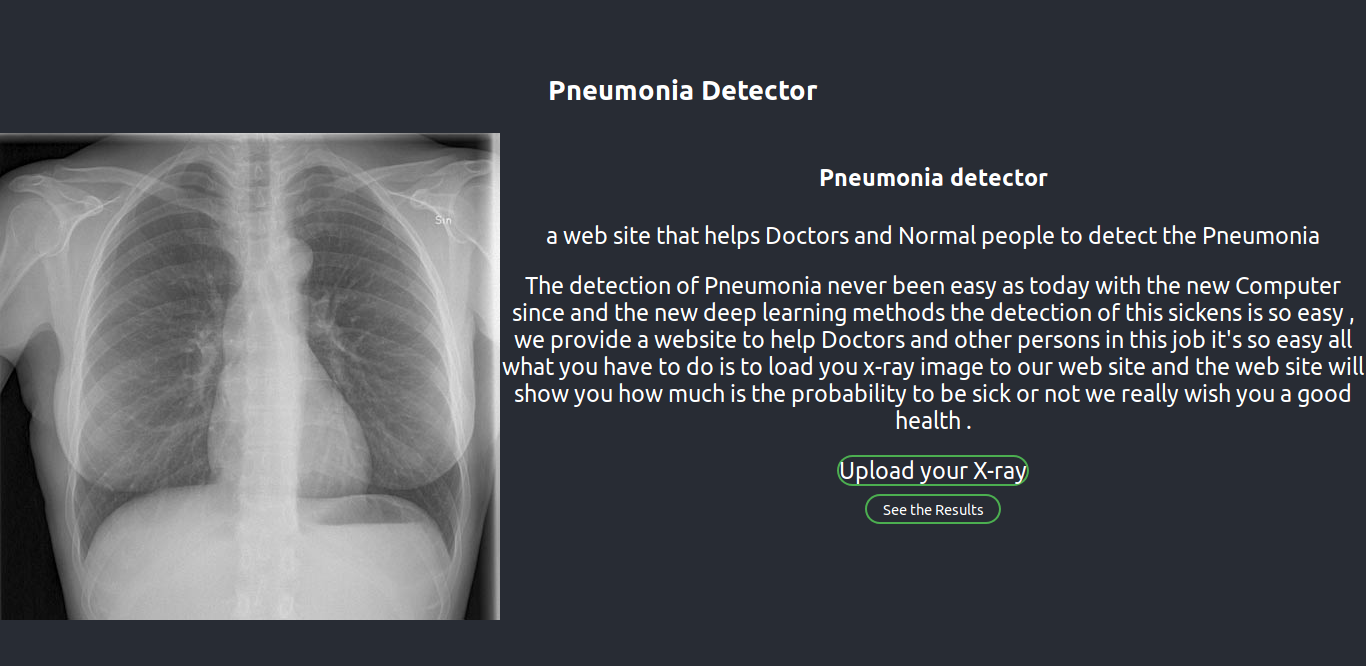
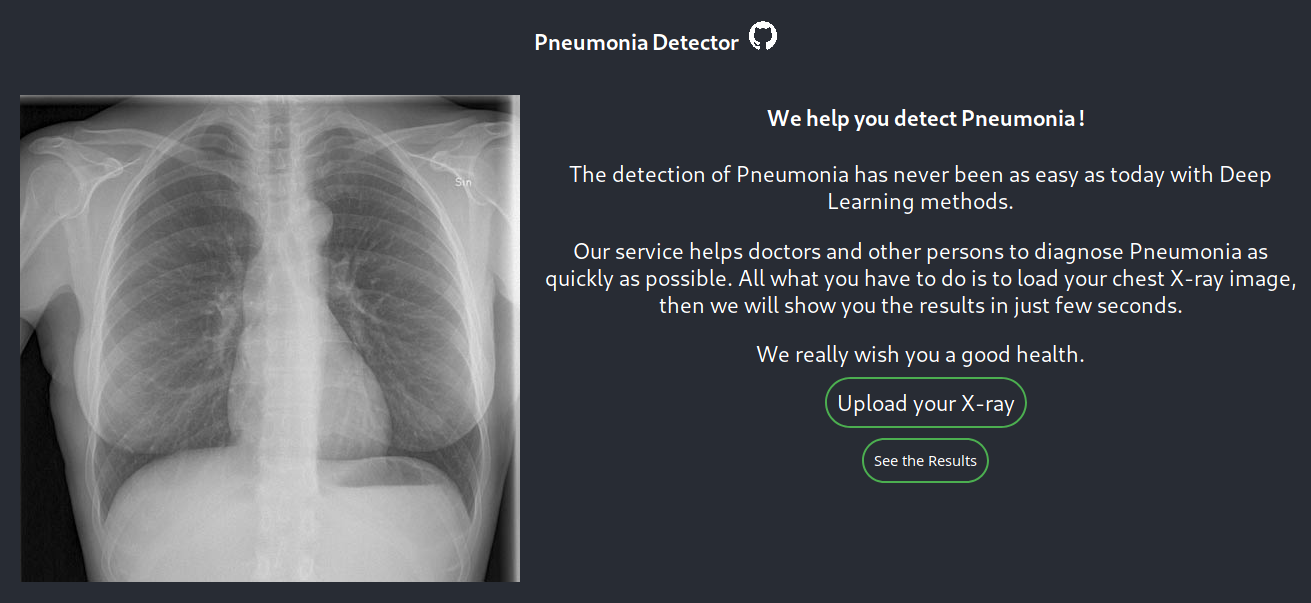
polishing the ui

diff --git a/webapp/pneumonia-detector/src/App.js b/webapp/pneumonia-detector/src/App.js
@@ -22,7 +22,8 @@ class App extends Component {
     selectedImage:null,
     visible : false,
     Normal:0,
-    Sick:0
+    Sick:0,
+    waiting: false,
   }
 
   Results = {
@@ -42,44 +43,80 @@ class App extends Component {
     this.uploadedImage = true
   }
 
+  getSelectedImageName = () => {
+    if (this.uploadedImage){
+      return this.state.selectedImage.name
+    }else {
+      return ""
+    }
+  }
 
   // this is the evenhandler of the sumbmit clic , it sends the image using axios
 
   OnUploadHeanderl = () =>{
-    if(this.state.selectedImage==null)alert('You didn\'t choose any Picture please selecte one and click agin');
-    else{    const fd =new FormData();
-              fd.append('chest_xray',this.state.selectedImage);
-              // this url should be changed after for now the API is runing under this addres in my machine
-              Axios.post('http://130.211.108.207:3000/pred',fd).then( response=>{
-              this.setState({
-                Normal : response.data['NORMAL'],
-                Sick   : response.data['PNEUMONIA']
-              })
-              this.openModal()
-              })
-  }
+    if(this.state.selectedImage==null)
+      alert('You didn\'t choose any picture. Please select one and click agin');
+    else{
+      const fd =new FormData();
+      fd.append('chest_xray',this.state.selectedImage);
+      // this url should be changed after for now the API is runing under this addres in my machine
+      this.setState({
+        waiting: true
+      })
+      Axios.post('http://130.211.108.207:3000/pred',fd)
+        .then( response=>{
+          this.setState({
+              Normal : response.data['NORMAL'],
+              Sick   : response.data['PNEUMONIA']
+            })
+            this.setState({
+              waiting: false
+            })
+            this.openModal()
+        })
+        .catch(error => {
+          this.setState({
+            waiting: false
+          })
+          alert("Something went wrong :/ \nPlease raise an issue on our github repo")
+        })
+    }
 
   }
+
   render() {
     return (
       <div className="App">
-        <header className="App-header">
-        <h3>Pneumonia Detector</h3>
+          <header className="App-header">
+          <div style={{margin: '20px'}}>
+          <a target="_blank" href="https://github.com/LatrecheYasser/pneumonia-detector">
+            <b>Pneumonia Detector</b>
+            <img src="/Image/github.png" style={{marginLeft:'10px', width:'4%'}}/>
+            </a>
+          </div>
           <div style={{backgroundColor:'#282c34'}}>
-          <img src="/Image/Pen.jpg" style={{float:'left'}} alt="an example of X-ray pic" ></img>
-          <h4 >Pneumonia detector</h4>
-          <p>
-          a web site that helps Doctors and Normal people to detect the Pneumonia
-          </p>
-          <p>
-          The detection of Pneumonia never been easy as today with the new Computer since and the new deep learning methods the detection of this sickens is so easy , we provide a website to help Doctors and other persons in this job
-          it's so easy all what you have to do is to load you x-ray image to our web site and the web site will show you how much is the probability to be sick or not
-          we really wish you a good  health .
-          </p>
+          <img src="/Image/Pen.jpg" style={{float:'left', margin:'20px'}} alt="an example of X-ray pic" ></img>
+          <h4>
+          We help you detect Pneumonia !
+          </h4>
+          <div id="desc">
+            <p>
+            The detection of Pneumonia has never been as easy as today with Deep Learning methods.
+            </p>
+            <p>
+            Our service helps doctors and other persons to diagnose Pneumonia as quickly as possible.
+            All what you have to do is to load your chest X-ray image, then we will show you the results in just few seconds.
+            </p>
+            <p>
+            We really wish you a good  health.
+            </p>
+          </div>
             <label className="button1"> Upload your X-ray
             <input type="file" onChange={this.fileChangedHandler}/></label>
-            <br/>
-            <button className="button1" onClick={this.OnUploadHeanderl}>See the Results</button>
+            <p visible={this.uploadedImage.toString()}>{this.getSelectedImageName()}</p>
+            <button className="button1" onClick={this.OnUploadHeanderl}>
+              {this.state.waiting? "Waiting..." : "See the Results"}
+            </button>
 
                 <Modal visible={this.state.visible} width="400" height="300" effect="fadeInUp" onClickAway={() => this.closeModal()}>
                     <div style={{color:'black'}}>

diff --git a/webapp/pneumonia-detector/public/index.html b/webapp/pneumonia-detector/public/index.html
@@ -8,34 +8,11 @@
       content="width=device-width, initial-scale=1, shrink-to-fit=no"
     />
     <meta name="theme-color" content="#000000" />
-    <!--
-      manifest.json provides metadata used when your web app is added to the
-      homescreen on Android. See https://developers.google.com/web/fundamentals/web-app-manifest/
-    -->
     <link rel="manifest" href="%PUBLIC_URL%/manifest.json" />
-    <!--
-      Notice the use of %PUBLIC_URL% in the tags above.
-      It will be replaced with the URL of the `public` folder during the build.
-      Only files inside the `public` folder can be referenced from the HTML.
-
-      Unlike "/favicon.ico" or "favicon.ico", "%PUBLIC_URL%/favicon.ico" will
-      work correctly both with client-side routing and a non-root public URL.
-      Learn how to configure a non-root public URL by running `npm run build`.
-    -->
-    <title>React App</title>
+    <title>Pneumonia Detector</title>
   </head>
   <body>
     <noscript>You need to enable JavaScript to run this app.</noscript>
     <div id="root"></div>
-    <!--
-      This HTML file is a template.
-      If you open it directly in the browser, you will see an empty page.
-
-      You can add webfonts, meta tags, or analytics to this file.
-      The build step will place the bundled scripts into the <body> tag.
-
-      To begin the development, run `npm start` or `yarn start`.
-      To create a production bundle, use `npm run build` or `yarn build`.
-    -->
   </body>
 </html>

diff --git a/webapp/pneumonia-detector/src/App.css b/webapp/pneumonia-detector/src/App.css
@@ -18,14 +18,22 @@
   color: white;
 }
 
+a:hover, a:visited, a:link, a:active {
+  color: white;
+  text-decoration:none;
+}
+
+#desc p {
+  padding-left: 10px;
+  padding-right: 10px;
+}
+
 .App-link {
   color: #61dafb;
 }
 .button1 {
-  margin: 10px;
+  padding: 10px;
   border-radius: 30px;
-  height: 30px;
-  width: 10%;
   background-color: #282c34;
   color: white;
   border: 2px solid #4CAF50; /* Green */
